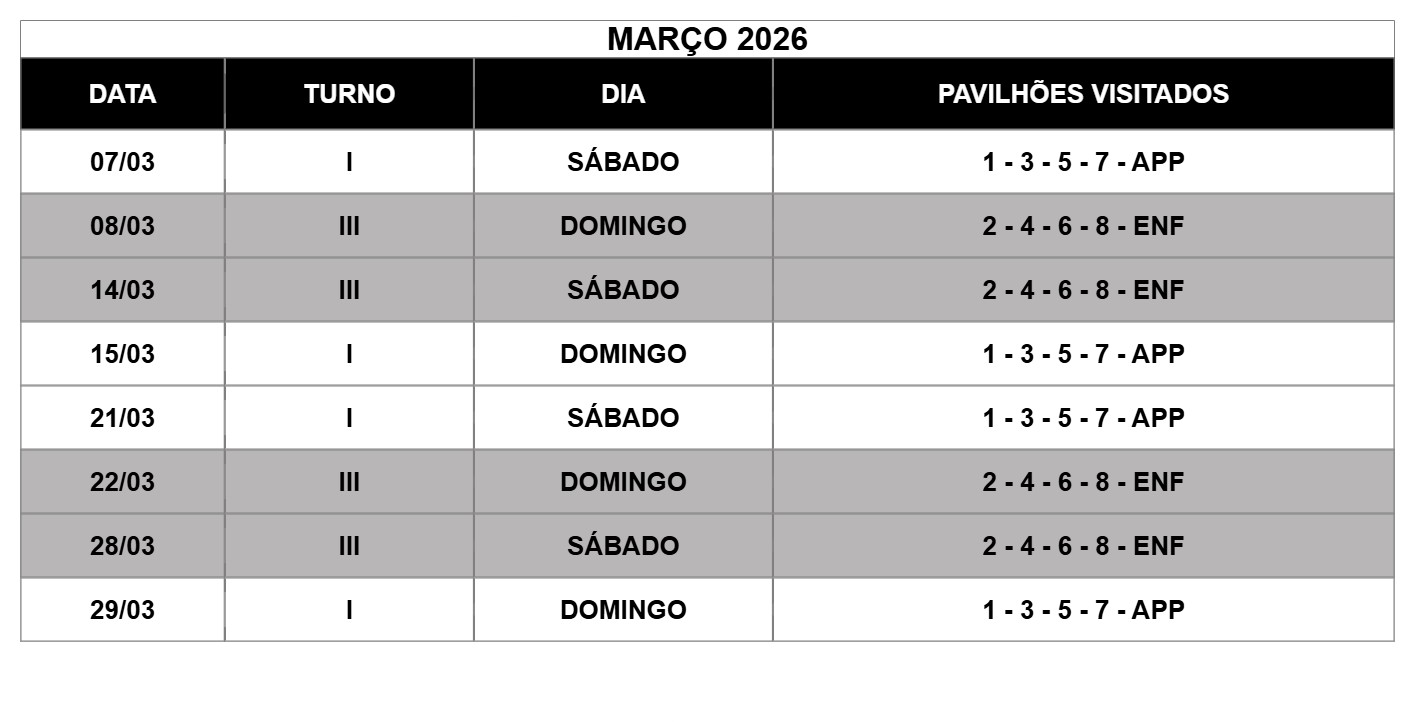
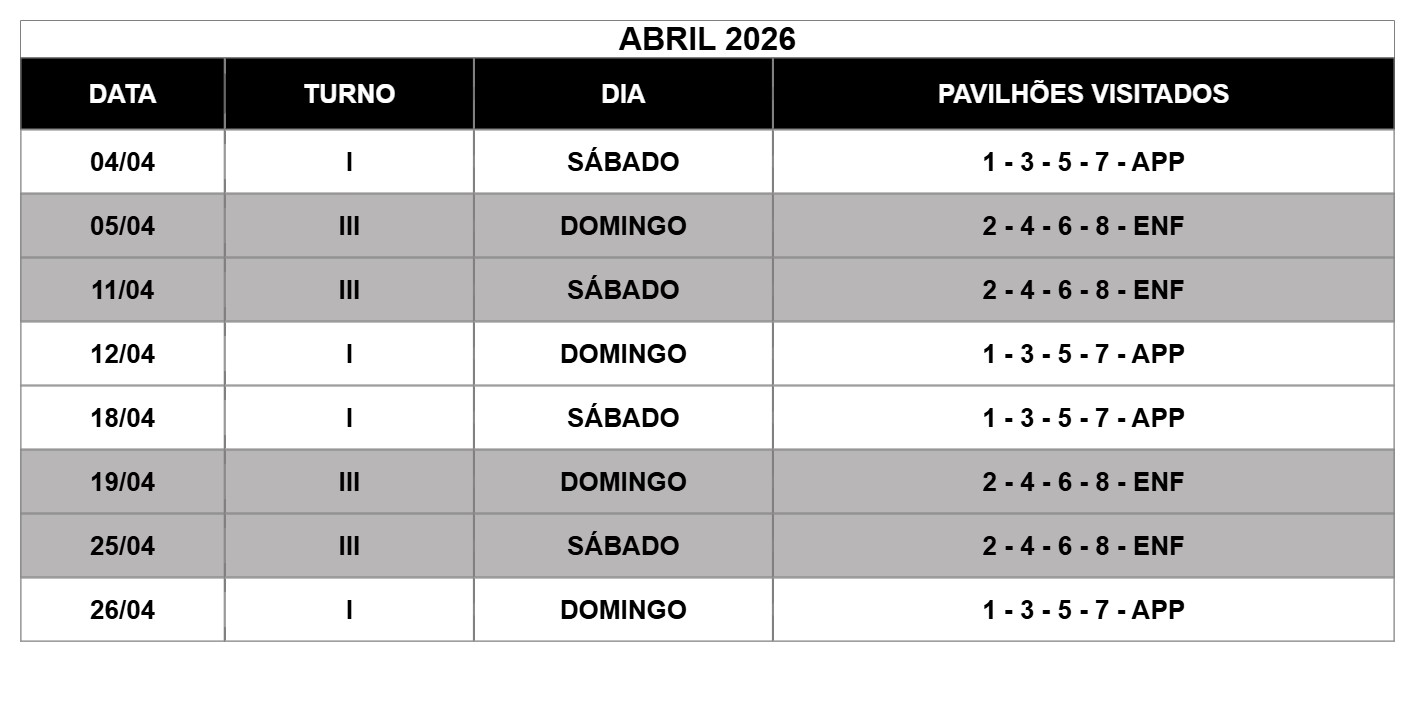
commit calendário abril de 2026

diff --git a/calendario.html b/calendario.html
@@ -39,7 +39,7 @@
       <section>
         <h2>Calendário de Visitação</h2>
         <img src="imagens/calendario.jpg" alt="Calendário de Visitação">
-        <p style="text-align: center;">Atualizado dia 06/03/2026</p>
+        <p style="text-align: center;">Atualizado dia 01/04/2026</p>
         <!--<p style="color: red; font-weight: bold; text-align: center;">DEVIDO AS ELEIÇÕES, A VISITAÇÃO DO DIA 02/10/2022 TERÁ SEU HORÁRIO ALERADO. DAS 10H ÀS 16H.</p>-->
       </section>
     </main>

diff --git a/index.html b/index.html
@@ -61,7 +61,7 @@
       <section>
         <h2>Últimas Informações</h2>
         <section>
-          <p>Calendário de visitação de março de 2026</p>
+          <p>Calendário de visitação de abril de 2026</p>
           <img src="imagens/calendario.jpg" alt="Informações sobre o Calendário">
         </section>
         <!--<section>
